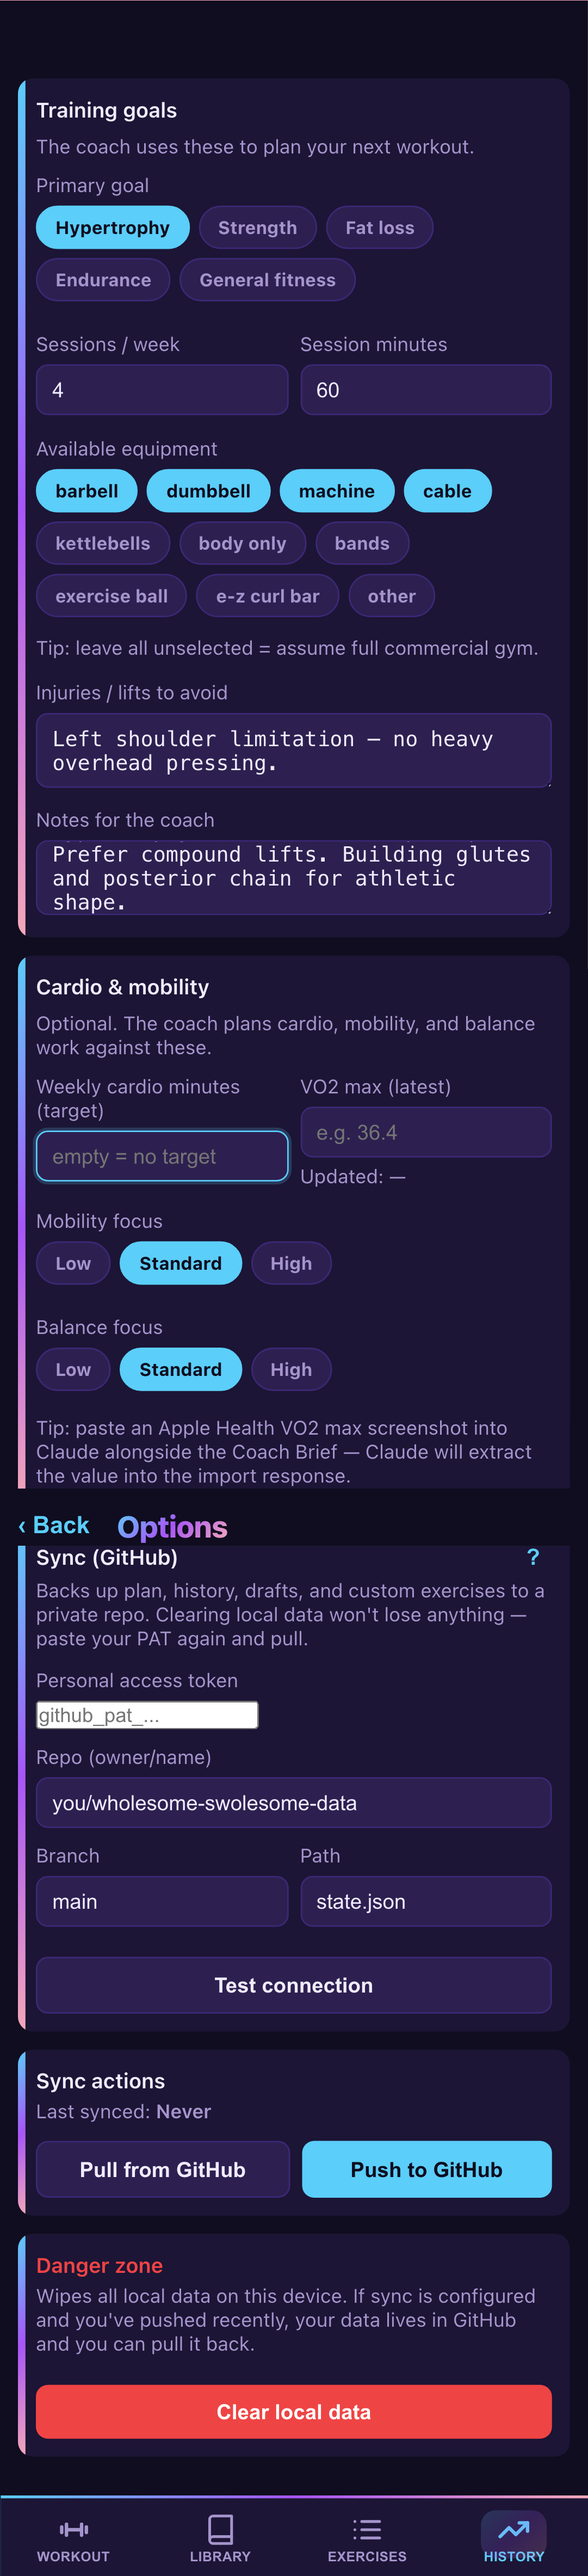
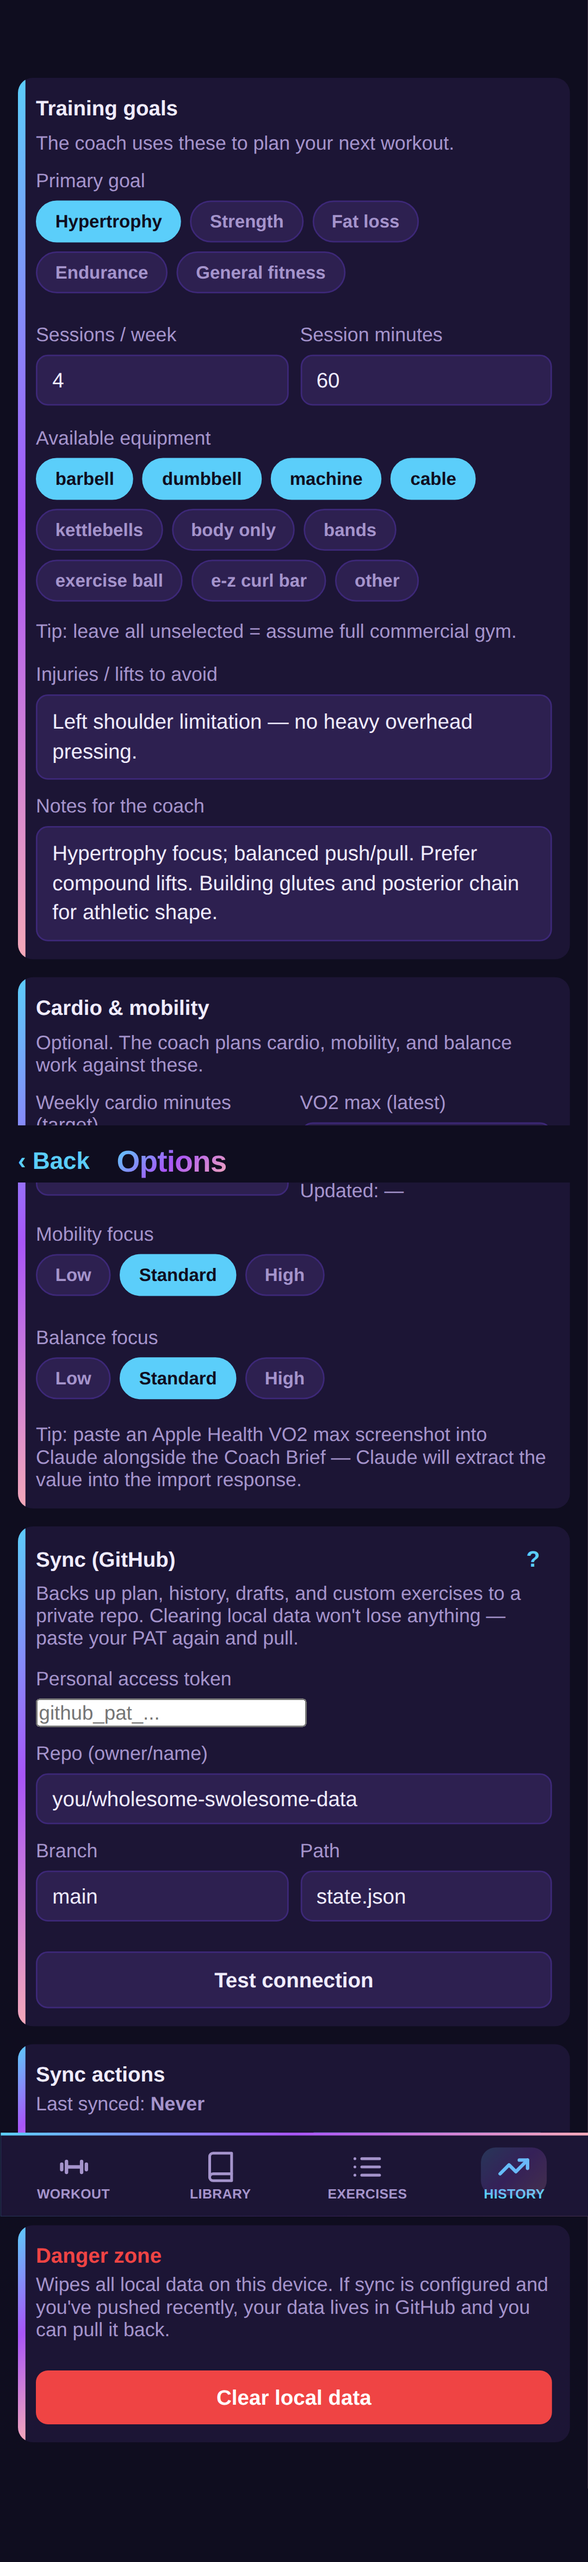
docs(walkthrough): refresh text + curated screenshots against #24–#57
docs/walkthrough.md hadn't moved since ad76b42 (2026-06-01) while ~15 PRs
changed the UI it describes. This page is the 5-minute external pitch, so
every claim is re-checked against the source rather than the old wording.

Text, per PR:
- #42  injuries/coach notes are tap-to-open full-screen editors, not textareas
- #28–#32, #51  cardio logs a Z1–Z5 heart-rate zone grid (fractional minutes,
  prescribed zones pre-filled with their target) and derives RPE from the
  logged distribution — min × RPE is gone; the Apple Health screenshot flow
  returns zones + an inferred RPE
- #39  re-importing the same Apple Health workout corrects in place
- #27  commonly-loaded body-only lifts keep their weight input
- #26  the Exercises tab's "Logging for" date picker / backdating
- #33–#35  coach brief: logged-sets-only rundown with no plan titles, drafts
  included, no invented user preferences, stretching/balance excluded from
  muscle recovery
- #38  the nightly agent shells out to the shared coach-brief generator
- #43, #53  Pages deploys published releases; merging to main is staging
- #31  the app icon is a real dumbbell icon now

Screenshots: 02-goals-and-cardio.png recaptured — the goals card is the only
curated scene whose UI actually changed (note-preview cards replaced the
inline textareas). The other eight screens' components are untouched since
ad76b42, and an old-vs-new pixel diff showed only font-rendering and
[…]

diff --git a/tests/playwright/walkthrough_hypertrophy.spec.ts b/tests/playwright/walkthrough_hypertrophy.spec.ts
@@ -138,18 +138,23 @@ test.describe('Hypertrophy walkthrough', () => {
       await page.locator('.goal-pill').filter({ hasText: new RegExp(`^${eq}$`) }).click();
     }
 
-    // ── 9. Notes textarea — a generic athletic-shape prompt ──────────────────
-    const textareas = page.locator('.card textarea');
+    // ── 9. Free-text goal fields — now tap-to-open full-screen editors (#42) ──
+    // `.note-preview` cards stand in for the old inline textareas: tap one,
+    // type into the overlay's `.note-editor-area`, tap Done to commit.
+    const fillNote = async (idx: number, text: string) => {
+      await page.locator('.note-preview').nth(idx).click();
+      await page.waitForSelector('.note-editor-area');
+      await page.locator('.note-editor-area').fill(text);
+      await page.locator('.note-editor-bar button', { hasText: 'Done' }).click();
+      await page.waitForSelector('.note-editor', { state: 'detached' });
+    };
     // avoid box first
-    await textareas.nth(0).fill(
-      'Left shoulder limitation — no heavy overhead pressing.',
-    );
-    await textareas.nth(0).press('Tab');
+    await fillNote(0, 'Left shoulder limitation — no heavy overhead pressing.');
     // notes box second
-    await textareas.nth(1).fill(
+    await fillNote(
+      1,
       'Hypertrophy focus; balanced push/pull. Prefer compound lifts. Building glutes and posterior chain for athletic shape.',
     );
-    await textareas.nth(1).press('Tab');
 
     await shot(page, 'options_goals_filled');
 

diff --git a/docs/walkthrough.md b/docs/walkthrough.md
@@ -1,3 +1,31 @@
+<!--
+  Curated screenshots → the walkthrough spec + raw file that produced each one.
+
+  The harness (`npx playwright test --config=playwright.walkthrough.config.ts`)
+  never writes to docs/walkthrough/. It writes raw, spec-numbered shots to the
+  gitignored tests/playwright/screenshots/<spec>/. To refresh a curated image,
+  run the harness and copy the raw file over the curated one, keeping the
+  curated name:
+
+    curated file                  spec                        raw file
+    01-home-empty.png             walkthrough_hypertrophy     01_home_empty.png
+    02-goals-and-cardio.png       walkthrough_hypertrophy     06_options_goals_filled.png
+    03-library-detail.png         walkthrough_legday          02_library_detail_squat.png
+    04-coach-brief-top.png        walkthrough_hypertrophy     08_coach_brief_top.png
+    05-coach-brief-bottom.png     walkthrough_hypertrophy     09_coach_brief_bottom.png
+    06-today-scheduled.png        walkthrough_hypertrophy     12_home_with_scheduled.png
+    07-session-view.png           walkthrough_hypertrophy     14_session_exercise_open.png
+    08-heatmap-after.png          walkthrough_hypertrophy     18_history_after_session.png
+    09-home-done.png              walkthrough_hypertrophy     20_home_after_finish_done.png
+
+  e.g. cp tests/playwright/screenshots/walkthrough_hypertrophy/01_home_empty.png \
+          docs/walkthrough/01-home-empty.png
+
+  The raw filenames are the spec's shot order, so adding or removing a `shot()`
+  call renumbers everything after it — re-check this table when a spec changes.
+  README.md embeds 06, 07 and 08; don't rename those.
+-->
+
 # Wholesome Swolesome — a tour
 
 A mobile-first workout tracker that asks **Claude** to plan each day's session against
@@ -25,7 +53,10 @@ coach hasn't planned today's session yet, so you tap *Generate workout with Clau
 
 One-time setup. Primary goal (Hypertrophy / Strength / Fat loss / Endurance / General
 fitness), sessions per week, session minutes, available equipment, injuries to avoid,
-freeform coaching notes. Below: **Cardio & mobility** — weekly cardio minutes target,
+freeform coaching notes. The two free-text fields aren't inline textareas: each is a
+tappable preview card that clamps to three lines and opens a **full-screen editor**
+(Cancel / Done) — on a phone, typing a paragraph into a 2-row box wedged between other
+controls was miserable. Below: **Cardio & mobility** — weekly cardio minutes target,
 latest VO2 max (with the date it's from), and Low/Standard/High focus levels for
 mobility and balance. Everything below the Training-goals card is optional.
 
@@ -49,6 +80,24 @@ minutes hit so far, current VO2 max, mobility/balance focus levels, days-since-
 each-muscle-was-worked, days-since-each-muscle-was-stretched, recent training, and
 the full exercise library inline (so Claude can only choose valid IDs).
 
+Three things the brief is careful about, each the fix for a way the coach used to
+go wrong:
+
+- **"Worked" means strength/cardio/plyometric work only.** Stretching and balance
+  drills don't count toward muscle recovery — they're tracked in the separate
+  mobility table — so a week of hamstring stretches no longer reads as a week of
+  hamstring training.
+- **The recent-training rundown lists only sets you actually checked off.** Planned
+  session titles are omitted entirely and exercises with zero completed sets are
+  dropped, so a day *planned* as "Upper Pull" whose pull work never happened can't
+  be mis-credited as done. Freeform drafts you never finalized still count — a
+  checked-off set is real work.
+- **No invented preferences.** The task rules tell Claude that your behavioral
+  constraints are *only* what's written in the Goals section; it may not infer new
+  ones from your history ("they seem to avoid floor work"). Cardio entries carry
+  their per-zone minute breakdown and the RPE derived from it, so intensity is read
+  off the real distribution rather than guessed.
+
 ### 5. Paste Claude's response
 
 <img src="walkthrough/05-coach-brief-bottom.png" width="320" alt="Bottom of Coach Brief — paste-area for Claude's JSON response">
@@ -57,6 +106,8 @@ Copy the brief into any Claude conversation — Claude Code, the Claude mobile a
 claude.ai. (If you also paste an Apple Health VO2-max screenshot into the same
 conversation, Claude will extract the reading and include it in the response.) You
 get back a strict JSON object describing one workout. Paste it here, tap *Import workout*.
+Cardio exercises in that JSON can carry per-zone heart-rate minutes rather than a flat
+duration, which is what the Apple Health flow (step 7 and below) feeds back in.
 
 ### 6. Today's workout
 
@@ -71,9 +122,26 @@ rationale, then the exercise list with target sets × rep ranges. Tap *Start wor
 
 Each exercise is an accordion. Open it, enter weight + reps for each set, tap ✓ to
 log it. Inputs pre-fill with the values from the matching set in your last session,
-so you can usually just tap-tap-tap through it. Cardio exercises show min × RPE
-instead. Stretching/balance exercises show a duration timer. The session auto-saves
-to localStorage — close the browser mid-workout, resume later.
+so you can usually just tap-tap-tap through it. Stretching/balance exercises show a
+duration timer. The session auto-saves to localStorage — close the browser
+mid-workout, resume later.
+
+Two exceptions to weight × reps:
+
+- **Cardio** gets a **Z1–Z5 heart-rate zone grid** — one minutes box per zone, not a
+  single min × RPE pair. Zones the coach prescribed show their `/ N min` target and
+  start pre-filled at the planned value; the rest are blank. Minutes can be
+  fractional, because Apple Health reports them that way. You never type an RPE for
+  cardio: it's derived from the zone distribution you logged, so History, the
+  per-exercise progress view, and the coach brief all read the same number. A
+  *Paste cardio summary* box below the exercises turns an Apple Health
+  workout-summary screenshot into those zone minutes (plus Claude's inferred RPE) —
+  it appears for any cardio in the session, prescribed or ad-hoc.
+- **Bodyweight exercises** drop the weight box and log reps only — unless they're one
+  of the lifts people routinely load — pull-ups, chin-ups, dips, hanging leg raises,
+  weighted crunches and a few others — which keep a weight input for the plate or belt
+  you added. The library's `equipment` field tags all of those "body only", so the
+  exceptions are a short curated allow-list in `src/library.rs`.
 
 ### 8. The heatmap closes the loop
 
@@ -143,13 +211,19 @@ Why this is the right call:
   Paste an Apple Health screenshot into the same Claude conversation alongside the
   brief. Claude reads the value off the image, returns it as a top-level `vitals`
   block in the JSON response, and the app's importer updates your goals with it
-  (dropping stale source-dates silently).
+  (dropping stale source-dates silently). The same trick handles cardio *actuals*:
+  a workout-summary screenshot comes back as per-zone minutes plus an inferred
+  1–10 RPE, which the session view writes straight onto the logged set. Re-import
+  the same workout and it corrects the existing entry in place rather than adding
+  a duplicate.
 - **You can also run the same prompt unattended.** `scripts/coach/coach.sh` plus
   Cowork's `/schedule` gives you a nightly agent that pulls your state from GitHub,
-  fetches the library, runs the same prompt template, parses the response,
-  validates every `library_id` against the bundled library, and pushes the new
-  workout back to your data repo. You wake up, open the PWA, today's session is
-  there.
+  fetches the library, builds the brief, parses the response, validates every
+  `library_id` against the bundled library, and pushes the new workout back to your
+  data repo. It doesn't keep its own copy of the prompt: it shells out to the
+  `coach-brief` binary, which calls the same `coach::build_coach_packet` the in-app
+  Coach Brief does, so the nightly agent and the button in your pocket can't drift
+  apart. You wake up, open the PWA, today's session is there.
 
 ### 3. Rust → WASM → PWA on iPhone Safari
 
@@ -167,8 +241,10 @@ Why Rust + WASM + PWA when basically every other production frontend is React?
   library JSON is network-first with HTTP-cache bypass. You can lose service in
   the gym basement and the PWA still loads and logs.
 - **No app-store review.** "Add to Home Screen" installs it like a native app,
-  with an icon, splash screen, and standalone window — but you push updates by
-  merging to main, no Apple/Google review cycle.
+  with its own dumbbell icon, splash screen, and standalone window — but you ship
+  updates by publishing a GitHub Release, no Apple/Google review cycle. (Merging to
+  `main` is staging; a published release is what deploys to Pages, so the live app
+  only moves when someone decides it should.)
 
 **And the killer iOS-PWA quirk that justifies the no-account design:** Google
 OAuth on iOS PWAs is *fundamentally broken*. The OAuth redirect bounces you to
@@ -188,10 +264,20 @@ about again — sidesteps the whole pile.
   session for that exercise (matched by `library_id`, falling back to exact name).
   Pyramid sets, drop sets, and warm-up sets all preserve their structure across
   sessions.
+- **Log anything, any day, from the Exercises tab.** You don't need a planned
+  session to log work. Search the library, tap an exercise, log sets straight onto
+  an ad-hoc entry. A **"Logging for" date picker** at the top of the tab (capped at
+  today, with a *⏱ Backdated* marker when it isn't today) backfills yesterday's
+  session when you forgot in the moment — it sets both the entry's date and each
+  set's completion date, so the heatmap and the coach brief see the work on the day
+  it actually happened.
 - **Two body silhouettes, two semantics.** The History heatmap colors by *days
   since strength-worked*. The Coach Brief separately tracks *days since last
   stretched* per muscle, which feeds into mobility prescription. Same body, two
-  different views of recovery.
+  different views of recovery. Stretching and balance work never counts as
+  "worked" on either the heatmap or the recovery table — a 30s cooldown stretch
+  isn't a training stimulus, and crediting it told the coach a muscle was still
+  recovering when it wasn't.
 - **Library validation is enforced both client- and server-side.** The coach
   packet inlines every valid exercise ID; the importer rejects any
   `library_id` not in the bundled library; the nightly `coach.sh` aborts the
@@ -205,9 +291,12 @@ about again — sidesteps the whole pile.
   (date, day, exercise, set #, reps, weight, completed, duration). If you ever
   outgrow the app, you walk away with a CSV.
 - **Walkthrough-as-tests.** This page's screenshots come from
-  `tests/playwright/walkthrough_hypertrophy.spec.ts` — the same e2e test that
-  proves the goal → coach → session → history flow works end-to-end. Updating
-  the screenshots is just re-running the test.
+  `tests/playwright/walkthrough_hypertrophy.spec.ts` and `walkthrough_legday.spec.ts`
+  — the same e2e tests that prove the goal → coach → session → history flow works
+  end-to-end. Updating the screenshots is just re-running the harness
+  (`npx playwright test --config=playwright.walkthrough.config.ts`) and copying the
+  raw shots over the curated ones; the mapping is in the comment at the top of this
+  file.
 
 ---
 

diff --git a/CHANGELOG.md b/CHANGELOG.md
@@ -17,6 +17,9 @@ for breaking changes. See `RELEASING.md`.
 
 ## [Unreleased]
 
+### Documentation
+- **Walkthrough refreshed against everything merged since 2026-06-01** (#58, code none — docs only, docs this change) — `docs/walkthrough.md` had not moved since `ad76b42` while ~15 PRs (#24–#57) changed what it describes. Rewritten against the source: the full-screen note editor for injuries/coach notes (#42), the Z1–Z5 heart-rate zone grid and zone-derived RPE that replaced min × RPE for cardio (#28–#32, #51), the weight input kept for commonly-loaded body-only lifts (#27), the Exercises-tab "Logging for" date picker (#26), Apple Health re-import correcting in place (#39), the coach brief's planned-vs-logged / no-invented-preferences / stretching-excluded-from-recovery rules (#33–#35), the nightly agent running off the shared `coach-brief` generator (#38), and Pages deploying from published releases rather than every push to `main` (#43, #53). `02-goals-and-cardio.png` recaptured (the only curated scene whose UI actually changed); the other eight screens are unchanged in the source, so their images were left alone. The curated→spec→raw screenshot mapping is now recorded at the top of the walkthrough, and `walkthrough_hypertrophy.spec.ts` drives the note editor instead of the removed inline textareas.
+
 ### Fixed
 - **Auto-deploy dispatches `main`, not the release tag** (#53, code this change, docs none — internal) — the `github-pages` environment's deployment-branch policy only permits `main`, so dispatching `deploy.yml` at the tag was rejected (`BlobNotFound`); v0.5.1's first auto-deploy attempt hit this. `release.yml` now dispatches `main`, which is the just-tagged commit, so the release still deploys exactly its own code. Rolls into the next release.
 
